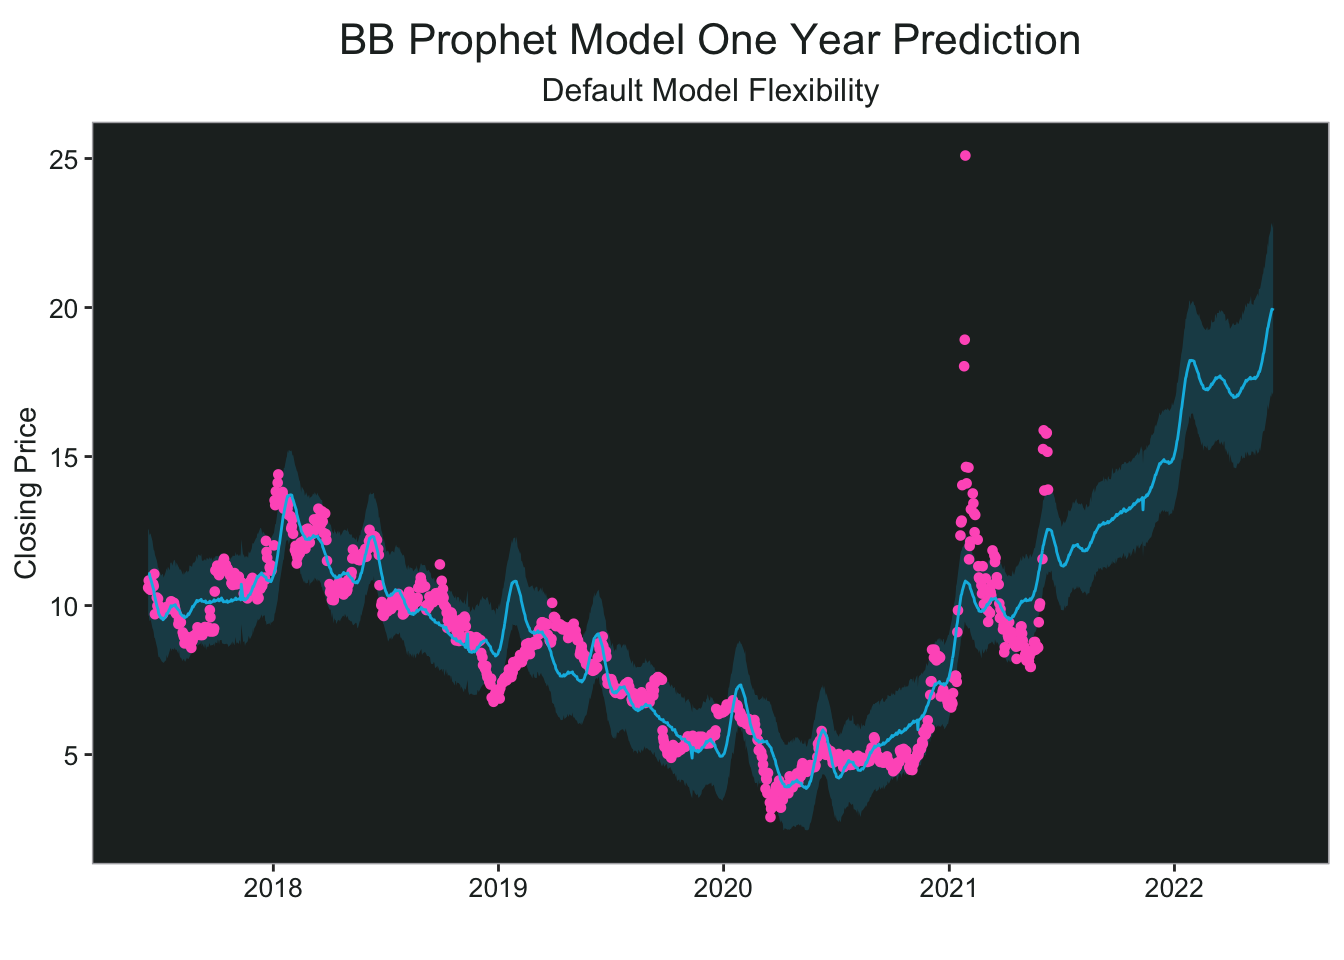
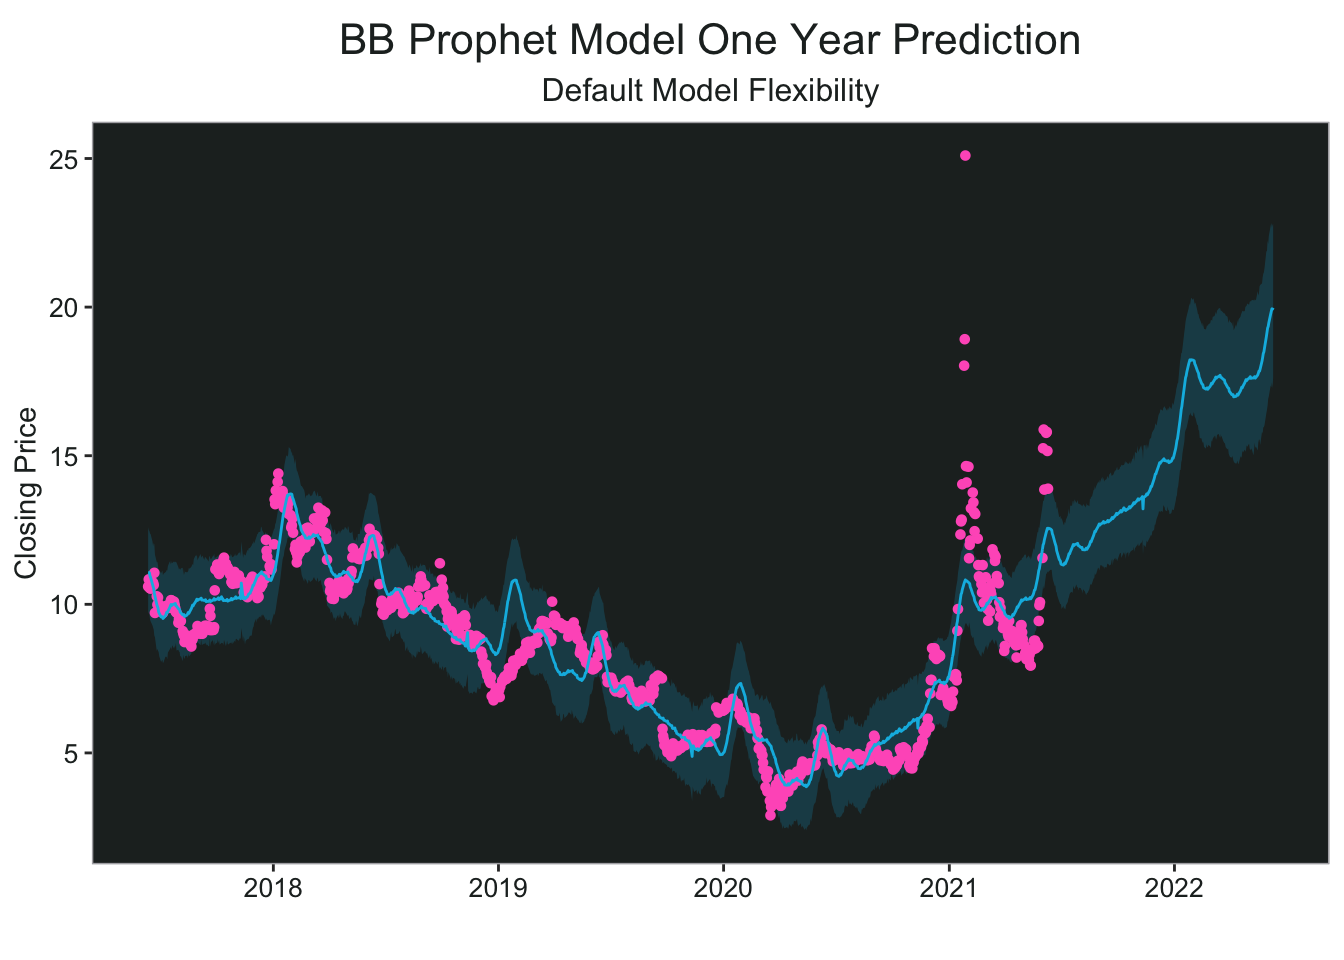
serve site for fixing make future dataframe

diff --git a/public/blog/2021-01-03-fight-the-future/index.html b/public/blog/2021-01-03-fight-the-future/index.html
@@ -433,19 +433,22 @@ df &lt;- df %&gt;%
   mutate(date2 = floor_date(ds, unit = &quot;weeks&quot;)) %&gt;% 
   left_join(google_trend %&gt;% select(date2, hits, log_hits))
 
-m5 &lt;- prophet(df, holidays = generated_holidays)
-
-future5 &lt;- make_future_dataframe(m5, periods = 365)
-
-future5 &lt;- future5 %&gt;% 
-  mutate(date2 = floor_date(ds, &quot;weeks&quot;)) %&gt;% 
-  left_join(google_trend %&gt;% select(date2, hits, log_hits))
-
+#remove df
 m5 &lt;- prophet(holidays = generated_holidays)
 
 m5 &lt;- add_regressor(m5, &quot;hits&quot;)
 
 m5 &lt;- fit.prophet(m5, df)
+
+#move these two after the fit
+future5 &lt;- make_future_dataframe(m5, periods = 365)
+
+future5 &lt;- future5 %&gt;% 
+  mutate(week_day = wday(ds)) %&gt;% 
+  filter(between(week_day, 2,6)) %&gt;% 
+  mutate(date2 = floor_date(ds, &quot;weeks&quot;)) %&gt;% 
+  left_join(google_trend %&gt;% select(date2, hits, log_hits))
+
 
 avg.hits &lt;- future5 %&gt;% summarise(avg = mean(hits, na.rm=TRUE)) %&gt;% pull(avg)
 
@@ -464,7 +467,7 @@ test5 &lt;- plot(m5, forecast5)</code></pre>
 <li>Uncertainty increases after January 2022, but it is still much better than the first one-year prediction with the increased flexibility.</li>
 </ul>
 <p>The green line below the chart is just the log scale of the Google trend data so you can see how that played out especially during the price increases.</p>
-<p><img src="https://www.kpress.dev/blog/2021-01-03-fight-the-future/index.en_files/figure-html/unnamed-chunk-18-1.png" width="672" /></p>
+<p><img src="https://www.kpress.dev/blog/2021-01-03-fight-the-future/index.en_files/figure-html/unnamed-chunk-19-1.png" width="672" /></p>
 </div>
 </div>
 <div id="my-picks-week-of-june-14th-2021" class="section level2">
@@ -494,7 +497,7 @@ test5 &lt;- plot(m5, forecast5)</code></pre>
   facet_wrap(~ ticker, ncol = 2, scale = &quot;free_y&quot;) +
   my_theme</code></pre>
 <pre><code>## Warning: Removed 30 row(s) containing missing values (geom_path).</code></pre>
-<p><img src="https://www.kpress.dev/blog/2021-01-03-fight-the-future/index.en_files/figure-html/unnamed-chunk-19-1.png" width="672" /></p>
+<p><img src="https://www.kpress.dev/blog/2021-01-03-fight-the-future/index.en_files/figure-html/unnamed-chunk-20-1.png" width="672" /></p>
 <div id="clx" class="section level3">
 <h3>CLX</h3>
 <p>I picked this ticker because:</p>
@@ -504,33 +507,33 @@ test5 &lt;- plot(m5, forecast5)</code></pre>
 <li>Calls are cheap</li>
 </ol>
 <p>It might not be the best prediction chart, but the charts are not the only basis for this pick. I’m planning on entering early this coming week.</p>
-<p><img src="https://www.kpress.dev/blog/2021-01-03-fight-the-future/index.en_files/figure-html/unnamed-chunk-20-1.png" width="672" /></p>
+<p><img src="https://www.kpress.dev/blog/2021-01-03-fight-the-future/index.en_files/figure-html/unnamed-chunk-21-1.png" width="672" /></p>
 </div>
 <div id="eng" class="section level3">
 <h3>ENG</h3>
 <p>I traded this before and sold at the peak, I think it has another run coming. If it can get above $3 and hold I will take a call position.</p>
-<p><img src="https://www.kpress.dev/blog/2021-01-03-fight-the-future/index.en_files/figure-html/unnamed-chunk-22-1.png" width="672" /></p>
+<p><img src="https://www.kpress.dev/blog/2021-01-03-fight-the-future/index.en_files/figure-html/unnamed-chunk-23-1.png" width="672" /></p>
 </div>
 <div id="mnmd" class="section level3">
 <h3>MNMD</h3>
 <p>Mindmed benefitted from the Google trend data, but I didn’t plot it because it was very messy looking. I’m bullish on this ticker and sector overall for similar reasons as the cannabis stocks.</p>
-<p><img src="https://www.kpress.dev/blog/2021-01-03-fight-the-future/index.en_files/figure-html/unnamed-chunk-24-1.png" width="672" /></p>
+<p><img src="https://www.kpress.dev/blog/2021-01-03-fight-the-future/index.en_files/figure-html/unnamed-chunk-25-1.png" width="672" /></p>
 </div>
 <div id="spce" class="section level3">
 <h3>SPCE</h3>
 <p>I like SPCE overall, but I think it’s due for a pretty sharp drop before the next leg up, which is why I have short term puts.</p>
-<p><img src="https://www.kpress.dev/blog/2021-01-03-fight-the-future/index.en_files/figure-html/unnamed-chunk-26-1.png" width="672" /></p>
+<p><img src="https://www.kpress.dev/blog/2021-01-03-fight-the-future/index.en_files/figure-html/unnamed-chunk-27-1.png" width="672" /></p>
 </div>
 <div id="tlry" class="section level3">
 <h3>TLRY</h3>
 <p>TLRY was another case where the Google trend data improved the model quite a bit (not all of them were useful). I didn’t include the Google trend line because it was too messy with the actual numbers and not super useful on the log scale.</p>
 <p>Tilray is more of a long-term swing for me, I bought some shares when it was around $17 recently to sell covered calls. Very bullish on this in the near future, and the whole sector really.</p>
-<p><img src="https://www.kpress.dev/blog/2021-01-03-fight-the-future/index.en_files/figure-html/unnamed-chunk-28-1.png" width="672" /></p>
+<p><img src="https://www.kpress.dev/blog/2021-01-03-fight-the-future/index.en_files/figure-html/unnamed-chunk-29-1.png" width="672" /></p>
 </div>
 <div id="uavs" class="section level3">
 <h3>UAVS</h3>
 <p>UAVS is a drone play and I really like the chart setup here. With the historical data it just looks like a giant cup and handle. Drones were also featured in ARK’s <a href="https://ark-invest.com/big-ideas-2021/">Big Ideas 2021</a>.</p>
-<p><img src="https://www.kpress.dev/blog/2021-01-03-fight-the-future/index.en_files/figure-html/unnamed-chunk-29-1.png" width="672" /></p>
+<p><img src="https://www.kpress.dev/blog/2021-01-03-fight-the-future/index.en_files/figure-html/unnamed-chunk-30-1.png" width="672" /></p>
 <p>And that’s all for today. Maybe I’ll check back in a year and see what actually happened. In the meantime, I’ll be busy researching - and hopefully making money.</p>
 </div>
 </div>
